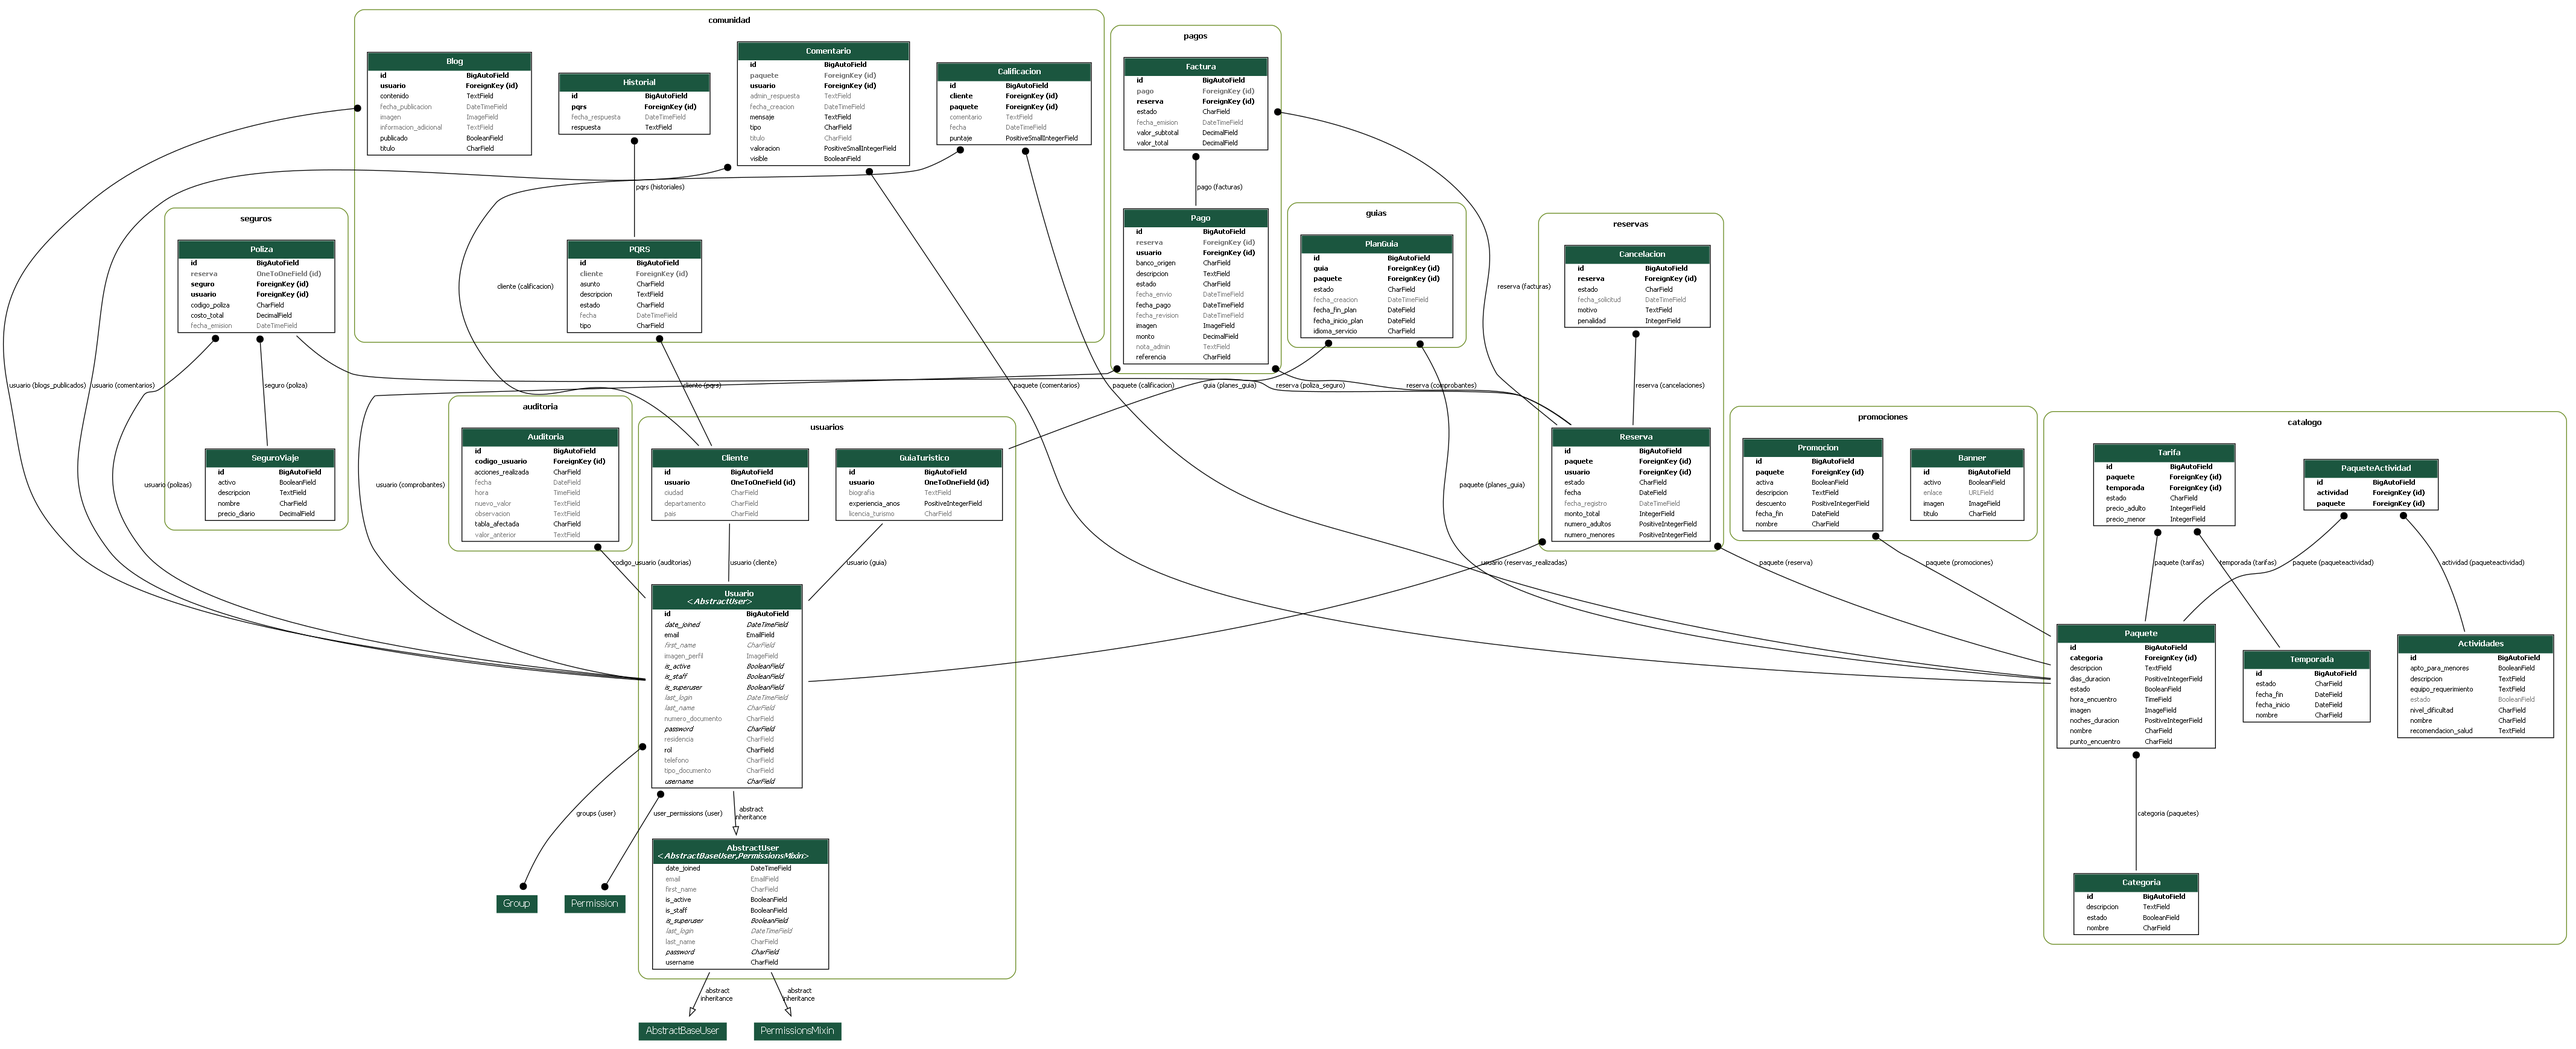
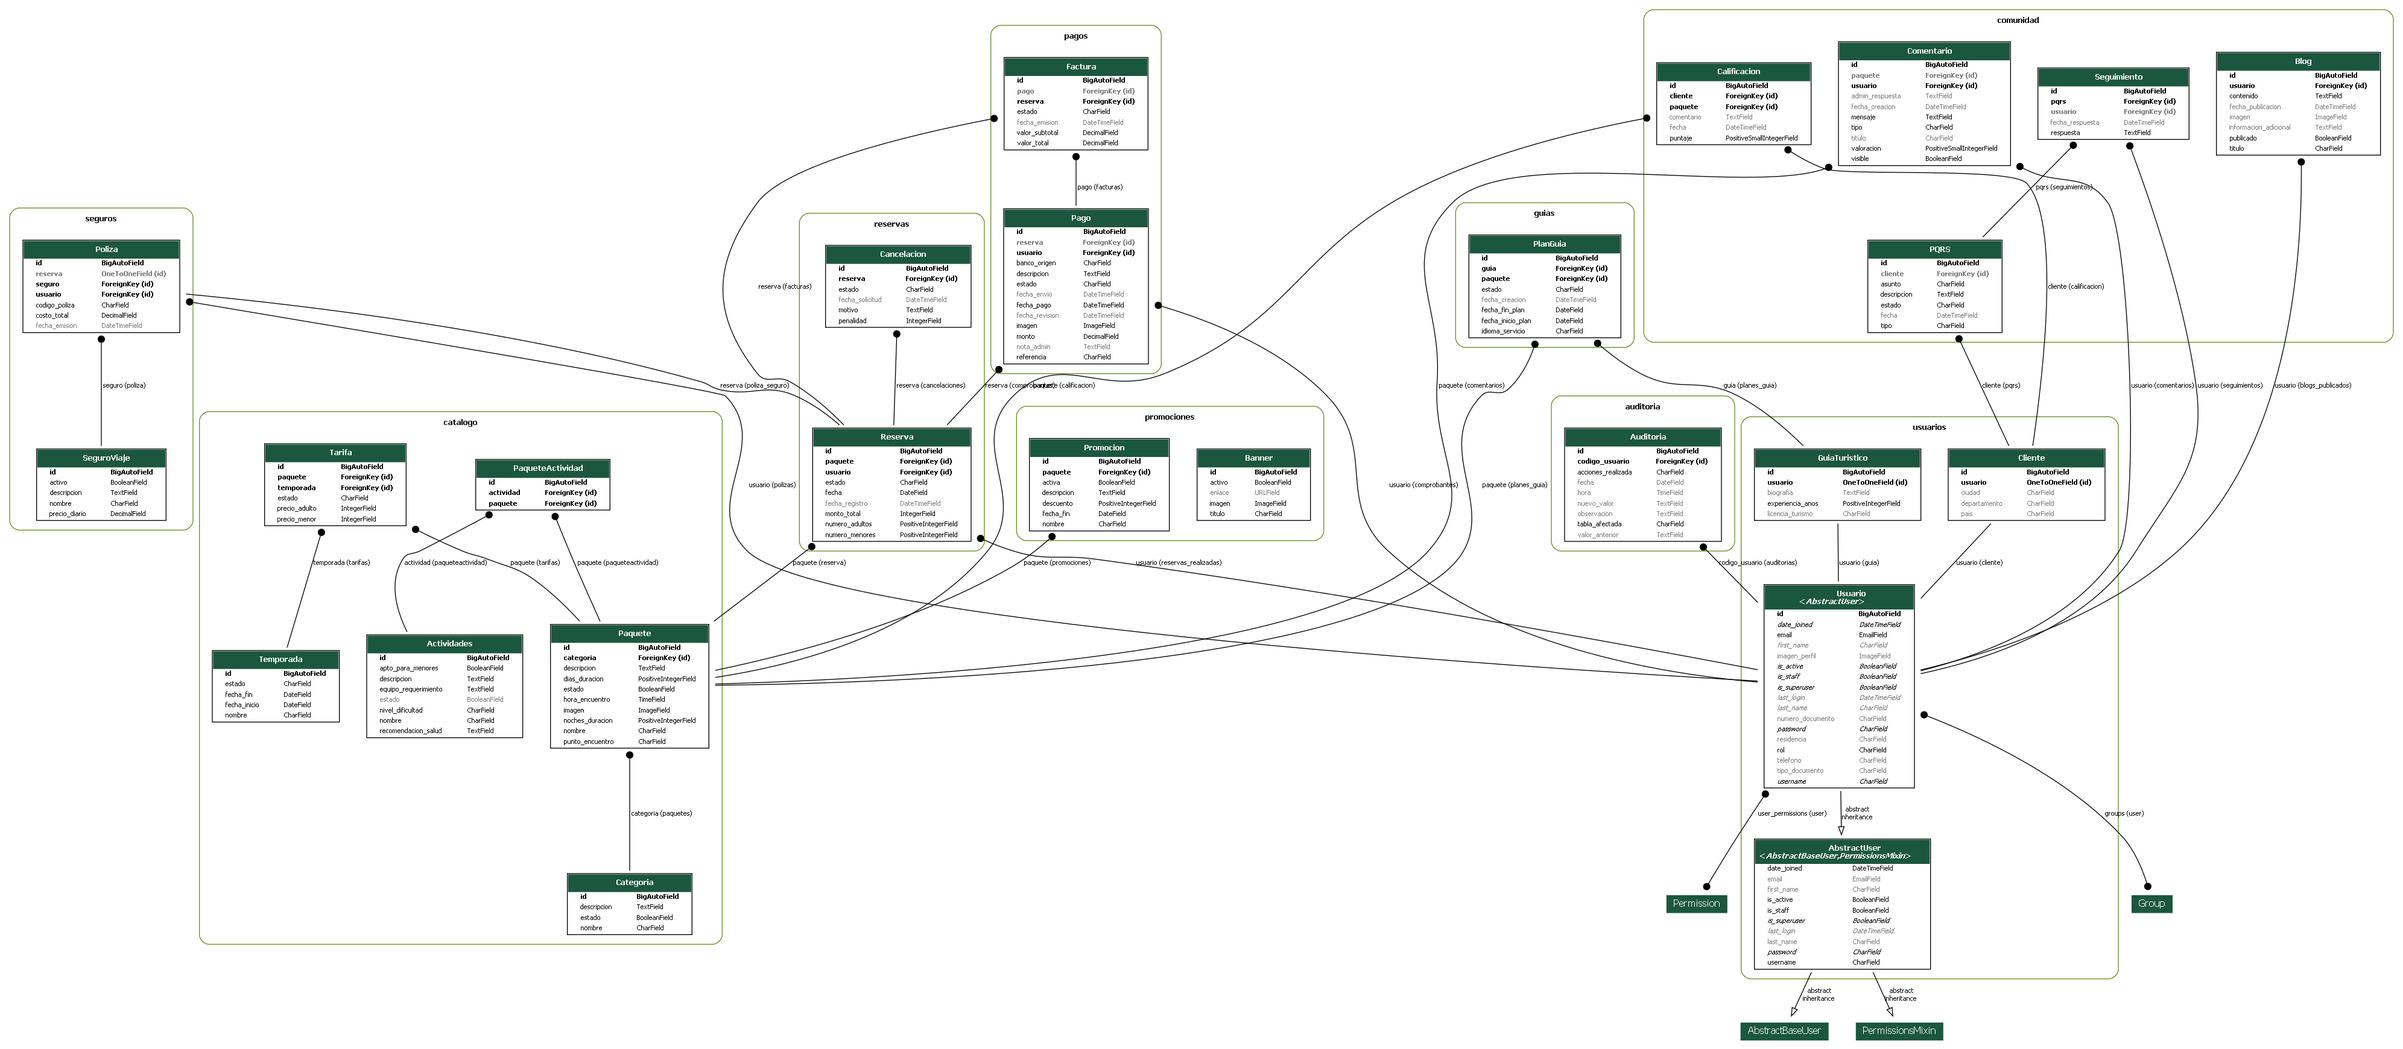
Refactor: Renombrar la entidad Historial a Seguimiento en comunidad/models.py con tabla física seguimiento

diff --git a/comunidad/templates/admin/pqrs/pqrs.html b/comunidad/templates/admin/pqrs/pqrs.html
@@ -81,7 +81,7 @@
                         </td>
                         <td class="text-center">
                             <!-- EVALUACIÓN POR ESTADO / HISTORIAL EN LUGAR DE pqr.respuesta -->
-                            {% if pqr.estado == 'cerrado' or pqr.historiales.all %}
+                            {% if pqr.estado == 'cerrado' or pqr.seguimientos.all %}
                                 <button type="button" 
                                         class="btn btn-sm btn-outline-success rounded-pill px-4 fw-bold" 
                                         data-bs-toggle="modal" data-bs-target="#modalContestar{{ pqr.id }}">
@@ -127,7 +127,7 @@
 
                         <div class="pt-2">
                             <!-- EVALUACIÓN EN MÓVIL TAMBIÉN -->
-                            {% if pqr.estado == 'cerrado' or pqr.historiales.all %}
+                            {% if pqr.estado == 'cerrado' or pqr.seguimientos.all %}
                                 <button type="button" 
                                         class="btn btn-sm w-100 btn-outline-success rounded-pill fw-bold" 
                                         data-bs-toggle="modal" data-bs-target="#modalContestar{{ pqr.id }}">

diff --git a/comunidad/templates/usuario/mis_pqrs.html b/comunidad/templates/usuario/mis_pqrs.html
@@ -84,7 +84,7 @@
 
                     <!-- RESPUESTA / ESTADO EN PROCESO -->
                     <div class="col-lg-6">
-                        {% if pqr.historiales.all %}
+                        {% if pqr.seguimientos.all %}
                         <div class="card h-100 border rounded-4 bg-light shadow-none">
                             <div class="card-header border-bottom bg-transparent p-3">
                                 <div class="d-flex align-items-center">
@@ -98,7 +98,7 @@
                                 </div>
                             </div>
                             <div class="card-body p-3 d-flex flex-column justify-content-between">
-                                {% for h in pqr.historiales.all %}
+                                {% for h in pqr.seguimientos.all %}
                                     <p class="text-dark fw-medium mb-3" style="white-space: pre-line;">{{ h.respuesta }}</p>
                                     <div class="p-2 rounded bg-white border d-flex align-items-center mb-0">
                                         <i class="bi bi-check-circle-fill me-2" style="color: var(--verde-main, #2c6e3c);"></i>

diff --git a/templates/partials/pqrs_modals.html b/templates/partials/pqrs_modals.html
@@ -22,7 +22,7 @@
                         <i class="bi bi-clock-history me-1"></i> Historial de respuestas registradas:
                     </h6>
                     <div class="mb-3 p-3 bg-light rounded-3 border" style="max-height: 180px; overflow-y: auto;">
-                        {% for item in pqr.historiales.all %}
+                        {% for item in pqr.seguimientos.all %}
                             <div class="border-bottom pb-2 mb-2">
                                 <div class="d-flex justify-content-between align-items-center">
                                     <small class="fw-bold text-dark"><i class="bi bi-person-badge me-1"></i> {{ item.usuario.first_name|default:"Administrador" }}</small>

diff --git a/auditoria/tests.py b/auditoria/tests.py
@@ -1,17 +1,12 @@
 from django.test import TestCase
 from django.contrib.auth import get_user_model
-from auditoria.models import Notificacion
+from auditoria.models import Auditoria
 from auditoria.utils import crear_notificacion_sistema
 
 Usuario = get_user_model()
 
-class NotificacionesTestCase(TestCase):
+class AuditoriaTestCase(TestCase):
     def setUp(self):
-        """
-        setUp.
-        
-        :return: Respuesta de la función.
-        """
         # Crear usuario de prueba
         self.user = Usuario.objects.create_user(
             username='user_notif',
@@ -20,11 +15,6 @@ class NotificacionesTestCase(TestCase):
         )
 
     def test_crear_notificacion_sistema_exito(self):
-        """
-        test_crear_notificacion_sistema_exito.
-        
-        :return: Respuesta de la función.
-        """
         # Crear notificación utilizando el utilitario
         notificacion = crear_notificacion_sistema(
             usuario=self.user,
@@ -34,18 +24,12 @@ class NotificacionesTestCase(TestCase):
         )
         
         self.assertIsNotNone(notificacion)
-        self.assertEqual(notificacion.cliente, self.user)
-        self.assertEqual(notificacion.titulo, "Nueva Alerta")
-        self.assertEqual(notificacion.mensaje, "Esto es un mensaje de alerta de prueba.")
-        self.assertEqual(notificacion.tipo, "sistema")
-        self.assertFalse(notificacion.leida)  # Por defecto no leída
+        self.assertEqual(notificacion.codigo_usuario, self.user)
+        self.assertEqual(notificacion.acciones_realizada, "Nueva Alerta")
+        self.assertEqual(notificacion.observacion, "Esto es un mensaje de alerta de prueba.")
+        self.assertEqual(notificacion.tabla_afectada, "Sistema")
 
     def test_crear_notificacion_usuario_no_autenticado(self):
-        """
-        test_crear_notificacion_usuario_no_autenticado.
-        
-        :return: Respuesta de la función.
-        """
         # Si pasamos un usuario no autenticado (o None), debe retornar None
         notificacion = crear_notificacion_sistema(
             usuario=None,
@@ -55,25 +39,13 @@ class NotificacionesTestCase(TestCase):
         )
         self.assertIsNone(notificacion)
 
-    def test_marcar_notificacion_como_leida(self):
-        """
-        test_marcar_notificacion_como_leida.
-        
-        :return: Respuesta de la función.
-        """
-        notificacion = Notificacion.objects.create(
-            cliente=self.user,
-            titulo="Reserva Confirmada",
-            mensaje="Tu reserva #123 ha sido confirmada.",
-            tipo="reserva"
+    def test_crear_auditoria_directa(self):
+        auditoria = Auditoria.objects.create(
+            codigo_usuario=self.user,
+            acciones_realizada="Reserva Confirmada",
+            observacion="Tu reserva #123 ha sido confirmada.",
+            tabla_afectada="reserva"
         )
         
-        self.assertFalse(notificacion.leida)
-        
-        # Simular lectura
-        notificacion.leida = True
-        notificacion.save()
-        
-        # Recargar de base de datos
-        notificacion.refresh_from_db()
-        self.assertTrue(notificacion.leida)
+        self.assertEqual(auditoria.codigo_usuario, self.user)
+        self.assertEqual(auditoria.acciones_realizada, "Reserva Confirmada")

diff --git a/comunidad/tests.py b/comunidad/tests.py
@@ -122,59 +122,39 @@ class CalificacionTest(TestCase):
 
 class BlogTest(TestCase):
 
+    def setUp(self):
+        self.usuario = crear_usuario(username='autor_blog')
+
     def test_crear_blog(self):
-        """
-        test_crear_blog.
-        
-        :return: Respuesta de la función.
-        """
         blog = Blog.objects.create(
+            usuario=self.usuario,
             titulo='Guía de Monagua',
             contenido='Contenido del artículo de prueba',
-            estado=True
+            publicado=True
         )
         self.assertEqual(blog.titulo, 'Guía de Monagua')
-        self.assertTrue(blog.estado)
+        self.assertTrue(blog.publicado)
 
     def test_str_blog(self):
-        """
-        test_str_blog.
-        
-        :return: Respuesta de la función.
-        """
         blog = Blog.objects.create(
+            usuario=self.usuario,
             titulo='Primer Post',
             contenido='Texto de prueba'
         )
-        self.assertEqual(str(blog), 'Primer Post')
+        self.assertIn('Primer Post', str(blog))
 
-    def test_estado_default_true(self):
-        """
-        test_estado_default_true.
-        
-        :return: Respuesta de la función.
-        """
-        blog = Blog.objects.create(titulo='Post', contenido='Texto')
-        self.assertTrue(blog.estado)
+    def test_publicado_default_true(self):
+        blog = Blog.objects.create(usuario=self.usuario, titulo='Post', contenido='Texto')
+        self.assertTrue(blog.publicado)
 
     def test_get_absolute_url(self):
-        """
-        test_get_absolute_url.
-        
-        :return: Respuesta de la función.
-        """
-        blog = Blog.objects.create(titulo='URL Test', contenido='Texto')
+        blog = Blog.objects.create(usuario=self.usuario, titulo='URL Test', contenido='Texto')
         url = blog.get_absolute_url()
         self.assertIn(str(blog.pk), url)
 
     def test_ordenamiento_por_fecha_descendente(self):
-        """
-        test_ordenamiento_por_fecha_descendente.
-        
-        :return: Respuesta de la función.
-        """
-        b1 = Blog.objects.create(titulo='Primero', contenido='a')
-        b2 = Blog.objects.create(titulo='Segundo', contenido='b')
+        b1 = Blog.objects.create(usuario=self.usuario, titulo='Primero', contenido='a')
+        b2 = Blog.objects.create(usuario=self.usuario, titulo='Segundo', contenido='b')
         blogs = list(Blog.objects.all())
         # El más reciente (b2) debe aparecer primero
         self.assertEqual(blogs[0].pk, b2.pk)

diff --git a/poblar_bd.py b/poblar_bd.py
@@ -4,7 +4,7 @@ import django
 os.environ.setdefault('DJANGO_SETTINGS_MODULE', 'core.settings')
 django.setup()
 
-from comunidad.models import Calificacion, Blog, PQRS, Comentario
+from comunidad.models import Calificacion, Blog, PQRS, Comentario, Seguimiento
 from reservas.models import Reserva, Cancelacion
 from catalogo.models import Categoria, Actividades, Paquete, Temporada, Tarifa
 from usuarios.models import Usuario, Cliente, GuiaTuristico
@@ -423,6 +423,7 @@ def poblar_base_datos():
     # 6. COMUNIDAD (CALIFICACIONES, BLOG, PQRS, COMENTARIOS)
     # ─────────────────────────────────────────────
     print("6. Creando Comunidad (Calificaciones, Blog, PQRS, Comentarios)...")
+    admin_user = Usuario.objects.filter(is_staff=True).first()
 
     # 6.1 Blogs
     blogs_reales = [
@@ -450,10 +451,11 @@ def poblar_base_datos():
 
     for data in blogs_reales:
         Blog.objects.create(
+            usuario=admin_user,
             titulo=data["titulo"],
             contenido=data["contenido"],
             informacion_adicional=data["informacion_adicional"],
-            estado=True
+            publicado=True
         )
 
     # 6.2 PQRS
@@ -481,14 +483,22 @@ def poblar_base_datos():
         "Necesito conocer las condiciones y porcentajes de penalidad por cancelación anticipada.",
         "Mi comprobante de pago fue rechazado sin explicación. Solicito una revisión detallada.",
     ]
+    admin_user = Usuario.objects.filter(is_staff=True).first()
     for i in range(10):
-        PQRS.objects.create(
+        est = random.choice(['abierto', 'en_proceso', 'cerrado'])
+        pqr_obj = PQRS.objects.create(
             cliente=random.choice(clientes_creados),
             tipo=random.choice(['peticion', 'queja', 'reclamo', 'sugerencia']),
             asunto=asuntos_pqrs[i],
             descripcion=descripciones_pqrs[i],
-            estado=random.choice(['abierto', 'en_proceso', 'cerrado'])
+            estado=est
         )
+        if est in ['en_proceso', 'cerrado']:
+            Seguimiento.objects.create(
+                pqrs=pqr_obj,
+                usuario=admin_user,
+                respuesta="Hemos recibido tu solicitud y se encuentra en revisión/atención por el equipo de Monagua."
+            )
 
     # 6.3 Calificaciones
     combinaciones_calificacion = set()

diff --git a/comunidad/views.py b/comunidad/views.py
@@ -1,7 +1,7 @@
 from django.views.generic import ListView, CreateView, UpdateView, DeleteView
 from django.urls import reverse_lazy
 from django.shortcuts import render, redirect
-from .models import PQRS, Blog , Historial
+from .models import PQRS, Blog, Seguimiento
 from django.shortcuts import get_object_or_404
 from .forms import PqrsForm, BlogForm
 from django.contrib import messages
@@ -14,7 +14,7 @@ from django.core.paginator import Paginator
 
 
 def blog(request):
-    blogs_list = Blog.objects.filter(estado=True).order_by('-fecha_publicacion')
+    blogs_list = Blog.objects.filter(publicado=True).order_by('-fecha_publicacion')
     paginator = Paginator(blogs_list, 6)  # Mostrar 6 blogs por página
     page_number = request.GET.get('page')
     blogs = paginator.get_page(page_number)
@@ -48,8 +48,8 @@ class PQRSListView(ListView):
 
         stats = PQRS.objects.aggregate(
             total=Count('id'),
-            respondidas=Count('id', filter=Q(historiales__isnull=False)),
-            pendientes=Count('id', filter=Q(historiales__isnull=True))
+            respondidas=Count('id', filter=Q(seguimientos__isnull=False)),
+            pendientes=Count('id', filter=Q(seguimientos__isnull=True))
         )
 
         context['stats_list'] = [
@@ -73,7 +73,7 @@ def contestar_pqrs(request, pqrs_id):
         respuesta_texto = request.POST.get('respuesta')
         
         if respuesta_texto:
-            Historial.objects.create(
+            Seguimiento.objects.create(
                 pqrs=pqr,
                 usuario=request.user,
                 respuesta=respuesta_texto
@@ -117,8 +117,8 @@ def mis_pqrs_view(request):
     solicitudes_usuario = PQRS.objects.none()
     try:
         cliente_obj = Cliente.objects.get(usuario=request.user)
-        # Traemos las solicitudes con prefetch de sus historiales para no recargar la BD
-        solicitudes_usuario = PQRS.objects.filter(cliente=cliente_obj).prefetch_related('historiales').order_by('-fecha')
+        # Traemos las solicitudes con prefetch de sus seguimientos para no recargar la BD
+        solicitudes_usuario = PQRS.objects.filter(cliente=cliente_obj).prefetch_related('seguimientos').order_by('-fecha')
     except Cliente.DoesNotExist:
         pass
 

diff --git a/comunidad/models.py b/comunidad/models.py
@@ -93,16 +93,28 @@ class PQRS(models.Model):
         return f'{self.get_tipo_display()} - {self.asunto}'
 
 
-class Historial(models.Model):
-    pqrs = models.ForeignKey(PQRS, on_delete=models.CASCADE, related_name='historiales')
-    respuesta = models.TextField() # El contenido del mensaje
-    fecha_respuesta = models.DateTimeField(auto_now_add=True)
+class Seguimiento(models.Model):
+    """Registro de seguimiento y respuestas a una solicitud PQRS por parte de un usuario o administrador."""
+    pqrs = models.ForeignKey(PQRS, on_delete=models.CASCADE, related_name='seguimientos')
+    usuario = models.ForeignKey(
+        settings.AUTH_USER_MODEL,
+        on_delete=models.CASCADE,
+        related_name='seguimientos',
+        null=True,
+        blank=True,
+        verbose_name='Usuario / Administrador'
+    )
+    respuesta = models.TextField(verbose_name='Mensaje / Respuesta')
+    fecha_respuesta = models.DateTimeField(auto_now_add=True, verbose_name='Fecha de Respuesta')
 
     class Meta:
-        ordering = ['fecha_respuesta'] 
+        db_table = 'seguimiento'
+        ordering = ['fecha_respuesta']
+        verbose_name = 'Seguimiento'
+        verbose_name_plural = 'Seguimientos'
 
     def __str__(self):
-        return f'Historial de {self.pqrs} - {self.fecha_respuesta.strftime("%Y-%m-%d %H:%M:%S")}'
+        return f'Seguimiento de {self.pqrs} - {self.fecha_respuesta.strftime("%Y-%m-%d %H:%M:%S")}'
 
 class Comentario(models.Model):
     """Comentarios y reseñas de experiencias de usuarios."""

diff --git a/promociones/tests.py b/promociones/tests.py
@@ -12,7 +12,14 @@ class PromocionesTestCase(TestCase):
         
         :return: Respuesta de la función.
         """
-        # Crear categoría y paquete para la promoción
+        from usuarios.models import Usuario
+        self.admin = Usuario.objects.create_superuser(
+            username='admin_promo',
+            email='admin@promo.com',
+            password='password123',
+            rol='admin'
+        )
+        self.client.force_login(self.admin)
         self.categoria = Categoria.objects.create(
             nombre='Playas',
             descripcion='Tours de playa'

diff --git a/comunidad/admin.py b/comunidad/admin.py
@@ -3,11 +3,11 @@ Registro de modelos de la comunidad en el sitio de administración de Django.
 """
 
 from django.contrib import admin
-from .models import Calificacion, Blog, PQRS, Comentario,Historial
+from .models import Calificacion, Blog, PQRS, Comentario, Seguimiento
 
 # Register your models here.
 admin.site.register(Calificacion)
 admin.site.register(Blog)
 admin.site.register(PQRS)
 admin.site.register(Comentario)
-admin.site.register(Historial)
+admin.site.register(Seguimiento)

diff --git a/export_to_mysql.py b/export_to_mysql.py
@@ -31,6 +31,7 @@ BUSINESS_TABLE_PREFIXES = (
     'reservas_',
     'pagos_',
     'pago',
+    'seguimiento',
     'comunidad_',
     'promociones_',
     'auditoria_',
